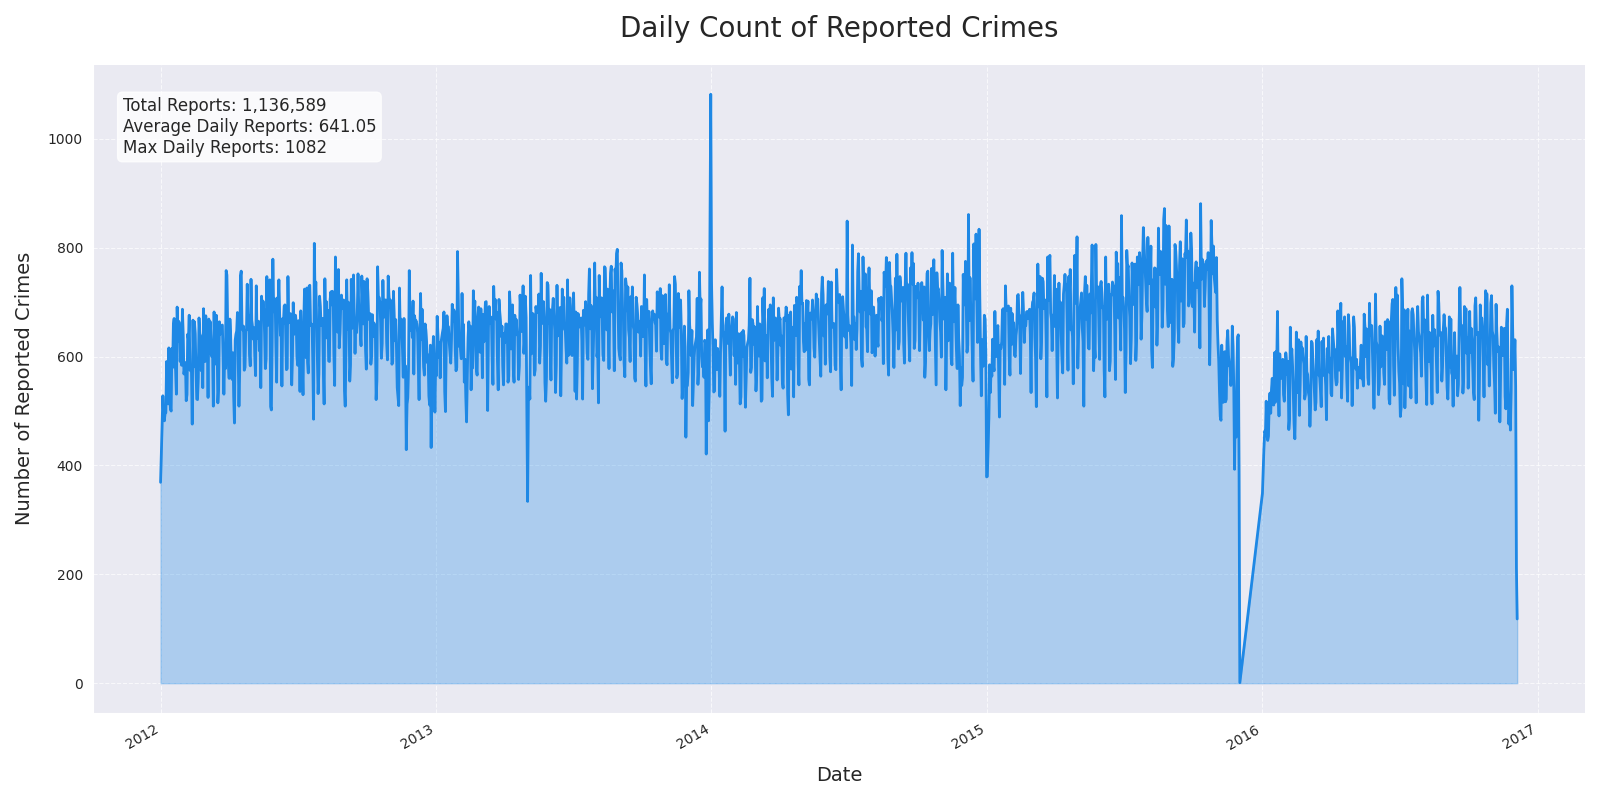
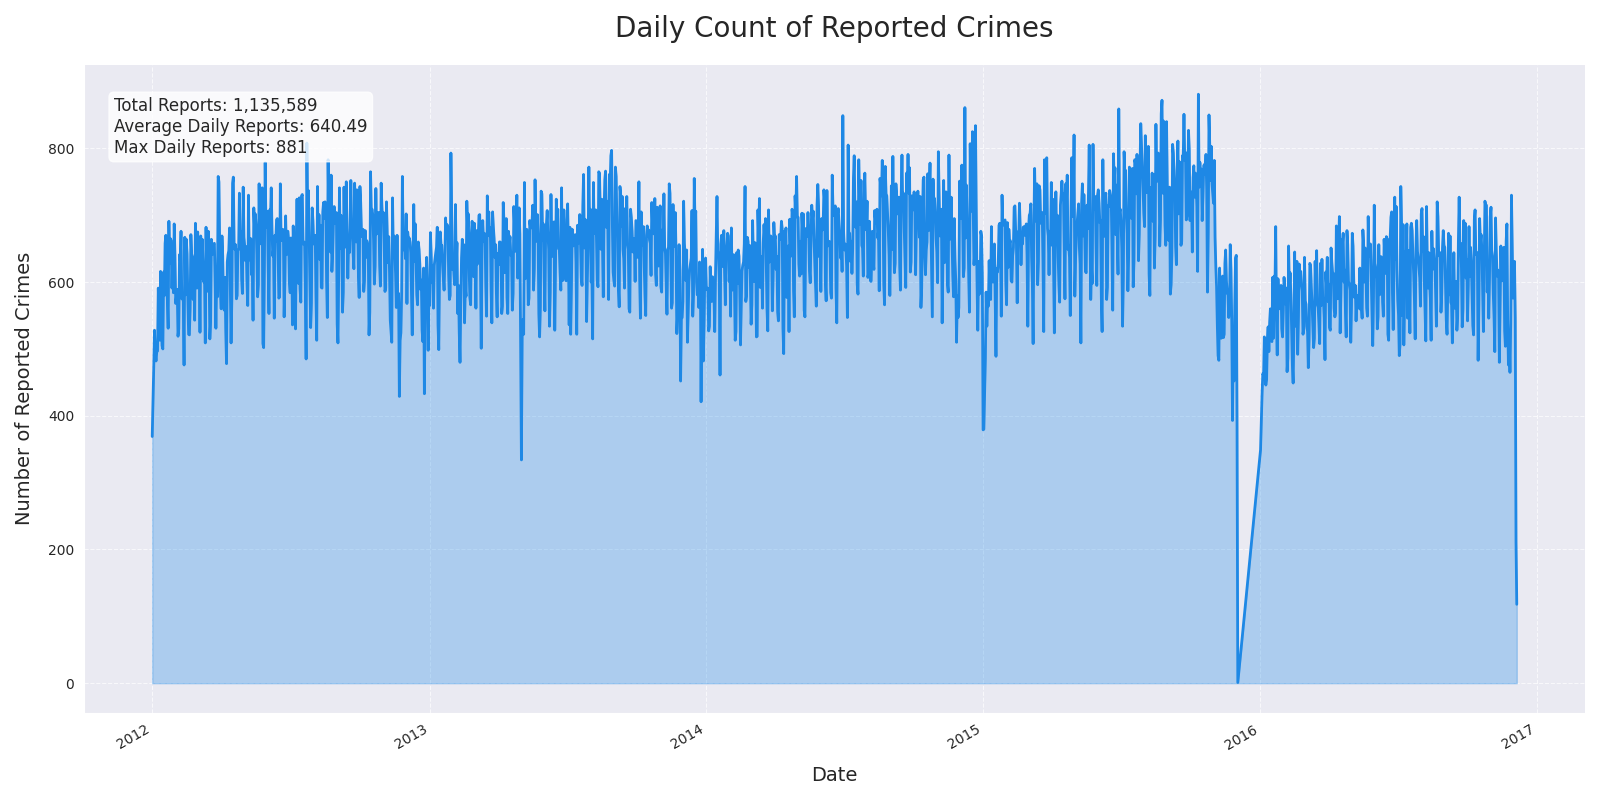
cleaned coord

diff --git a/dataunderstanding.py b/dataunderstanding.py
@@ -1,4 +1,4 @@
-from lib.data_prep import load_data
+from lib.data_prep import *
 import pandas as pd
 import matplotlib.pyplot as plt
 import seaborn as sns
@@ -8,14 +8,13 @@ import os
 from loguru import logger
 import geopandas as gpd
 from shapely.geometry import Point
-from tabulate import tabulate
 
 
 def detailed_yearly_comparison(df: pd.DataFrame, year: int) -> None:
     df['Date.Rptd'] = pd.to_datetime(df['Date.Rptd'])
     df['Year'] = df['Date.Rptd'].dt.year
 
-    # Filter data for the specified year and the previous year
+    # Filter data for the specified year and the previous yearW
     year_data = df[df['Year'] == year]
     prev_year_data = df[df['Year'] == year - 1]
 
@@ -316,41 +315,38 @@ if __name__ == "__main__":
 
     logger.info("Load Data ...")
     data: pd.DataFrame = load_data()
+    for i in range(2):
+        missing: bool = checking_missing_values(data)
 
-    missing: bool = checking_missing_values(data)
-    if missing:
-        logger.warning("There are missing values inside the Dataframe")
-        total_missing_count: int = counting_missing_values(data)
-        logger.warning(
-            f"\nTotal number of missing values in the DataFrame:, {total_missing_count}")
-        missing_columns = columns_with_missing_values(data)
-        logger.warning(f"Columns with missing values:, {missing_columns}")
-        # Display a sample of rows with missing values
-        logger.info(data[data.isnull().any(axis=1)].head())
-        missing_values_count_column = counting_missing_values_column(data)
-        logger.warning(f"Missing values count by column: {
-            missing_values_count_column}")
-    else:
-        logger.info("No missing values inside the Dataframe")
+        if missing:
+            logger.warning("There are missing values inside the Dataframe")
+            total_missing_count: int = counting_missing_values(data)
+            logger.warning(
+                f"\nTotal number of missing values in the DataFrame:, {total_missing_count}")
+            missing_columns = columns_with_missing_values(data)
+            logger.warning(f"Columns with missing values:, {missing_columns}")
+            # Display a sample of rows with missing values
+            logger.info(data[data.isnull().any(axis=1)].head())
+            missing_values_count_column = counting_missing_values_column(data)
+            logger.warning(f"Missing values count by column: {
+                missing_values_count_column}")
+        else:
+            logger.info("No missing values inside the Dataframe")
+
+        data = format_data_frame(data)
+        count_invalid_latitude = data['Latitude'].value_counts().get(
+            0.0,  np.nan)
+        logger.info(f"Anzahl der Zeilen, bei denen Latitude 0.0 oder 0 ist: {
+            count_invalid_latitude}")
 
     logger.info("Data loaded: First Information About the Dataframe")
 
     logger.info("Datatypes of the Script")
     logger.info(data.info())
 
-    logger.info("Checking the first rows")
-    logger.info(data.head())
-
     logger.info("Looking into the distribution of the variables")
 
-    data[['Latitude', 'Longitude']] = data['Location.1'].str.extract(
-        r'\(([^,]+),\s*([^\)]+)\)')
-    # Konvertiere die neuen Spalten in numerische Werte
-    data['Latitude'] = pd.to_numeric(data['Latitude'])
-    data['Longitude'] = pd.to_numeric(data['Longitude'])
-
-    describe_table = data.describe().reset_index()
-    logger.info(tabulate(describe_table, headers='keys', tablefmt='pretty'))
+    logger.info(data.describe())
 
     logger.info("Checking whether Coordinates are correct")
     logger.info(f" Count of data outside of LA: {count_outside_la(data)}")
@@ -363,13 +359,13 @@ if __name__ == "__main__":
     num_unique_street = data['Cross.Street'].nunique()
     logger.info(f"Count of different 'street': {num_unique_street}")
 
-    ########################### THE PLOTS ##########################
+    ########################## THE PLOTS ##########################
 
-    # create_time_series_plot(data)
-    # plot_area_code_frequencies(data)
-    # histogram_time(data)
-    # plot_top10_crimes(data)
+    create_time_series_plot(data)
+    plot_area_code_frequencies(data)
+    histogram_time(data)
+    plot_top10_crimes(data)
     # show_coordinates(data)
-    # plot_seasonal_analysis(data)
-    # plot_long_term_trends(data)
-    # detailed_yearly_comparison(data, 2016)
+    plot_seasonal_analysis(data)
+    plot_long_term_trends(data)
+    detailed_yearly_comparison(data, 2016)

diff --git a/lib/data_prep.py b/lib/data_prep.py
@@ -2,6 +2,8 @@ import os
 import pandas as pd
 import zipfile
 from io import BytesIO
+import numpy as np
+from loguru import logger
 
 
 def load_data() -> pd.DataFrame:
@@ -14,26 +16,49 @@ def load_data() -> pd.DataFrame:
         with zip_ref.open(csv_file_name) as csv_file:
             # BytesIO wird verwendet, um die Datei im Speicher zu halten
             data = BytesIO(csv_file.read())
-            df =  pd.read_csv(data, sep=",", parse_dates=["Date.Rptd", "DATE.OCC"])
+            df = pd.read_csv(data, sep=",", parse_dates=[
+                             "Date.Rptd", "DATE.OCC"])
 
             df = df.drop_duplicates()
             return df
 
-   
 
 def format_data_frame(data: pd.DataFrame) -> pd.DataFrame:
     data['DATE.OCC.Year'] = data['DATE.OCC'].dt.year.astype(int)
     data['DATE.OCC.Month'] = data['DATE.OCC'].dt.month.astype(int)
     data['DATE.OCC.Day'] = data['DATE.OCC'].dt.day.astype(int)
 
-    # Stellen sicher, dass es vierstellig ist
-    data['TIME_CATEGORY'] = data['TIME.OCC'].apply(
-        lambda x: str(x).zfill(4)[:2]).astype(int)
+    data[['Latitude', 'Longitude']] = data['Location.1'].str.extract(
+        r'\(([^,]+), ([^)]+)\)').astype(float)
+
+    data['SEASON'] = data['DATE.OCC.Month'].apply(get_season)
+    data['WEEKDAY'] = data['DATE.OCC'].dt.day_name()
+
+    data = clean_coordinates(data)
+    return data
+
+
+def clean_coordinates(data: pd.DataFrame) -> pd.DataFrame:
 
     data[['Latitude', 'Longitude']] = data['Location.1'].str.extract(
         r'\(([^,]+), ([^)]+)\)').astype(float)
-    data['SEASON'] = data['DATE.OCC.Month'].apply(get_season)
-    data['WEEKDAY'] = data['DATE.OCC'].dt.day_name()
+
+    invalid_coords = (data['Latitude'] == 0.0) & (data['Longitude'] == 0.0)
+    data.loc[invalid_coords, ['Latitude', 'Longitude']] = [np.nan, np.nan]
+
+    area_coords_mean: pd.DataFrame = data.groupby(
+        'AREA')[['Latitude', 'Longitude']].transform('mean')
+
+    data[['Latitude', 'Longitude']] = data[[
+        'Latitude', 'Longitude']].fillna(area_coords_mean)
+
+    invalid_coords_after = data['Latitude'].isna() | data['Longitude'].isna()
+
+    count_invalid_coords = invalid_coords_after.sum()
+    print(f"Anzahl der Zeilen, die gelöscht werden: {count_invalid_coords}")
+
+    data = data.dropna(subset=['Latitude', 'Longitude'])
+    logger.info("Cleaned the coordinates")
     return data
 
 
@@ -78,6 +103,15 @@ def optimize_data_types(df: pd.DataFrame) -> pd.DataFrame:
     return df
 
 
+def checking_missing_coordinates(data: pd.DataFrame) -> bool:
+    # Überprüft, ob es fehlende Werte in den Spalten 'Latitude' oder 'Longitude' gibt
+    missing_latitude = data['Latitude'].isnull().any()
+    missing_longitude = data['Longitude'].isnull().any()
+
+    # Gibt True zurück, wenn es fehlende Werte in einer der beiden Spalten gibt
+    return missing_latitude or missing_longitude
+
+
 if __name__ == "__main__":
 
     import os
@@ -87,6 +121,15 @@ if __name__ == "__main__":
     print("Inhalt des übergeordneten Verzeichnisses:", os.listdir('..'))
 
     data = load_data()
+    data[['Latitude', 'Longitude']] = data['Location.1'].str.extract(
+        r'\(([^,]+), ([^)]+)\)').astype(float)
+
     print(data.head())
     print(data.info())
+    print('Fehlende Werte ?')
+    print(checking_missing_coordinates(data))
+
     format_data_frame(data)
+    print('Fehlende Werte ?')
+
+    print(checking_missing_coordinates(data))

diff --git a/randomForest.py b/randomForest.py
@@ -11,21 +11,21 @@ from sklearn.model_selection import train_test_split, GridSearchCV, StratifiedKF
 from lib.tune_random_forest import grid_tune_hyperparameters, randomize_tune_hyperparameters
 import gc
 
-RANDOM_SEED = random.randint(1, 10)  # können wir final setten zum Schluss
-# RANDOM_SEED = 42
+# RANDOM_SEED = random.randint(1, 10)  # können wir final setten zum Schluss
+RANDOM_SEED = 41
 if __name__ == "__main__":
     data = load_data()
 
     print(data.head())
     print(data.info())
 
-    data_sample = data.sample(n=1000000, random_state=RANDOM_SEED)
+    data_sample = data.sample(n=600000, random_state=RANDOM_SEED)
     data_sample = format_data_frame(data_sample)
     data_sample = remove_outside_la(data_sample)
     del data
     gc.collect()
 
-    features: pd.DataFrame = data_sample[['AREA', 'TIME_CATEGORY',
+    features: pd.DataFrame = data_sample[['AREA', 'TIME.OCC',
                                           'Latitude', 'Longitude']]
     features = optimize_data_types(features)
 
@@ -37,8 +37,6 @@ if __name__ == "__main__":
 
     features.loc[:, ['Latitude', 'Longitude']] = scaled_features
 
-    # Durchführung von One-Hot-Encoding oder anderer kategorialer Kodierung
-    # features = pd.get_dummies(features, columns=['TIME_CATEGORY'])
     features = pd.get_dummies(features, columns=['AREA'])
 
     logger.info('---------------------------------------------')

diff --git a/lib/test.py b/lib/test.py
@@ -1,0 +1,24 @@
+import pandas as pd
+import numpy as np
+
+data = pd.DataFrame({
+    'Location.1': ['(34.0617, -118.2469)', '(25, -130)', '(0.0, 0.0)', '', '(34.0617, -118.2469)'],
+    'AREA': ['1', '1', '1', '4', '5']
+
+})
+data[['Latitude', 'Longitude']] = data['Location.1'].str.extract(
+    r'\(([^,]+), ([^)]+)\)').astype(float)
+
+invalid_coords = (data['Latitude'] == 0.0) & (data['Longitude'] == 0.0)
+print(data)
+data.loc[invalid_coords, ['Latitude', 'Longitude']] = [np.nan, np.nan]
+
+area_coords_mean: pd.DataFrame = data.groupby(
+    'AREA')[['Latitude', 'Longitude']].transform('mean')
+
+# Fülle fehlende Koordinaten basierend auf dem Durchschnitt der AREA
+data[['Latitude', 'Longitude']] = data[[
+    'Latitude', 'Longitude']].fillna(area_coords_mean)
+
+
+print(data)
